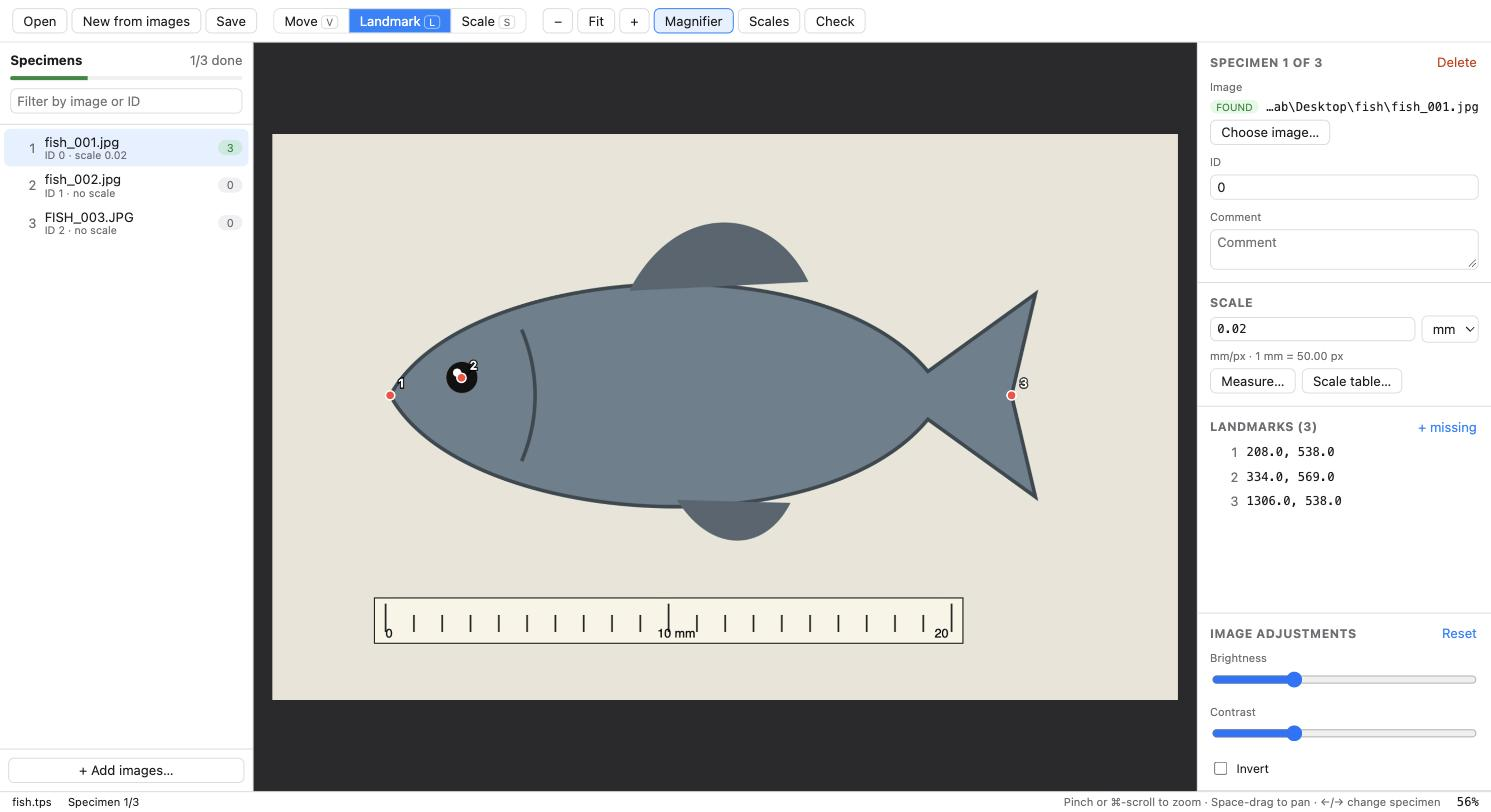
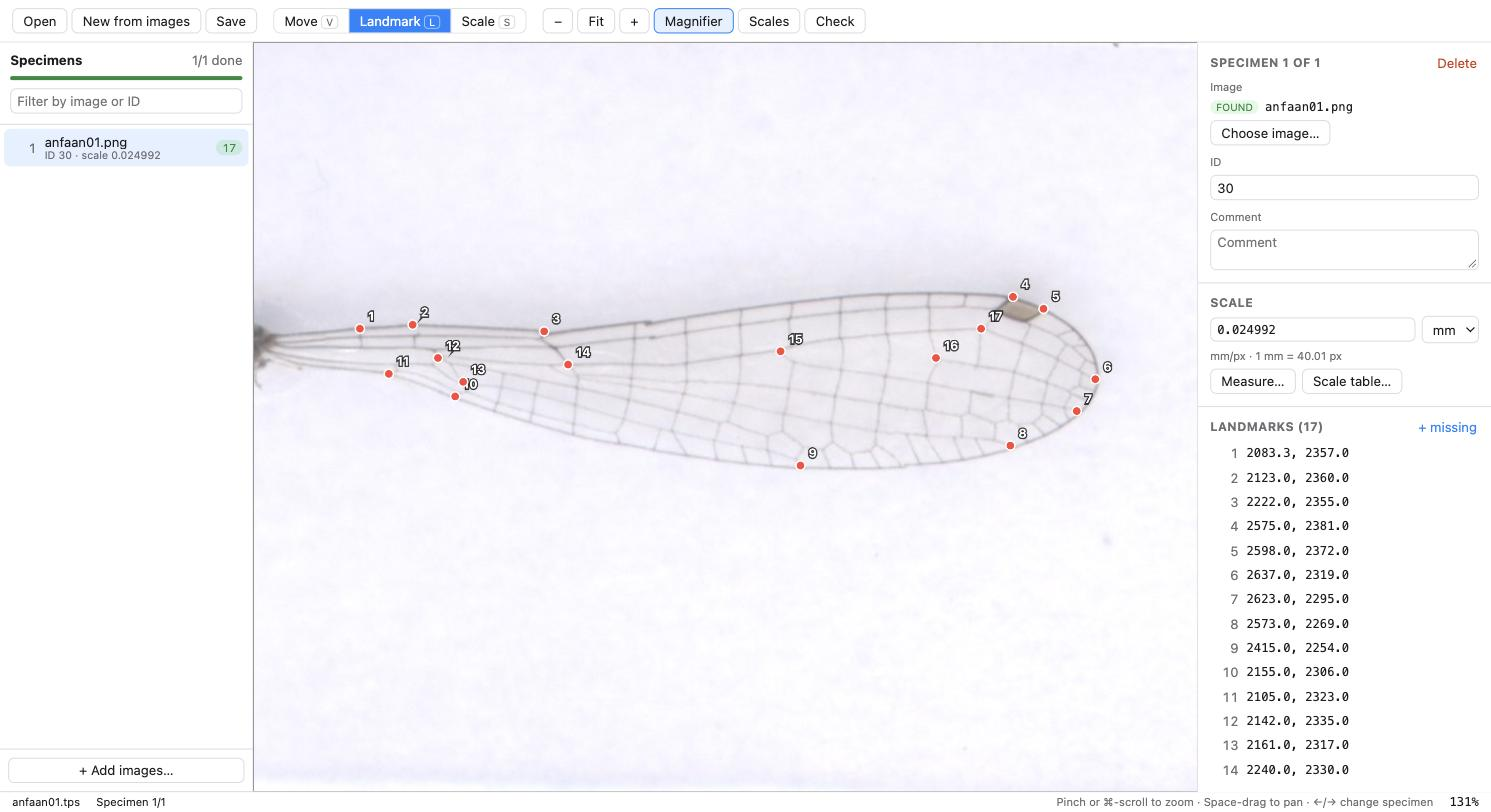
Use a real wing scan as the example; describe TPS View on its own terms
- Replace the synthetic fish example with a 1200 dpi wing scan and its 17 landmarks
- New website screenshot showing the digitized wing
- Website, README and app copy describe TPS View as an easy way to work with TPS files
- Bump to 0.1.1; update checkout/setup-node actions

diff --git a/docs/index.html b/docs/index.html
@@ -4,10 +4,10 @@
     <meta charset="utf-8" />
     <meta name="viewport" content="width=device-width, initial-scale=1" />
     <title>TPS View</title>
-    <meta name="description" content="Free, open-source landmark digitizer for .tps files. A modern tpsDig2 alternative for macOS, Windows and Linux." />
+    <meta name="description" content="Free, open-source app to create and edit .tps landmark files on macOS, Windows and Linux." />
     <link rel="icon" type="image/png" href="icon.png" />
-    <meta property="og:title" content="TPS View — open-source landmark digitizer" />
-    <meta property="og:description" content="A modern, free tpsDig2 alternative for macOS, Windows and Linux. Reads and writes standard .tps files." />
+    <meta property="og:title" content="TPS View — TPS landmark files, made easy" />
+    <meta property="og:description" content="Open your images, place landmarks, set the scale and save an analysis-ready .tps file. Free and open source for macOS, Windows and Linux." />
     <meta property="og:image" content="screenshot.jpg" />
     <style>
       :root {
@@ -287,9 +287,9 @@
 
       <header class="hero">
         <img class="logo" src="icon.png" alt="TPS View icon" />
-        <h1>Digitize landmarks.<br />On any computer.</h1>
+        <h1>TPS landmark files,<br />made easy.</h1>
         <p class="tagline">
-          TPS View is a free, open-source landmark digitizer for geometric morphometrics. It's a modern alternative to tpsDig2 that runs natively on Mac and reads and writes standard <code>.tps</code> files.
+          TPS View is a free, open-source app for building geometric morphometrics datasets. Open your images, place landmarks, set the scale, and save a clean <code>.tps</code> file ready for analysis, on Mac, Windows or Linux.
         </p>
         <div class="buttons">
           <a class="btn primary" id="download-mac" href="https://github.com/Echeverri222/tps-view/releases/latest">
@@ -301,15 +301,15 @@
         </div>
         <div class="meta" id="meta">Free and open source (MIT) · Apple Silicon &amp; Intel · macOS 11+</div>
         <div class="shot">
-          <img src="screenshot.jpg" alt="TPS View showing a fish specimen with three landmarks, the specimen list and the scale panel" width="1491" height="812" />
+          <img src="screenshot.jpg" alt="TPS View showing a scanned insect wing with 17 digitized landmarks, the specimen list and the scale panel" width="1491" height="812" />
         </div>
       </header>
     </div>
 
     <section class="alt" id="features">
       <div class="wrap">
-        <h2>Everything you used tpsDig for</h2>
-        <p class="lead">Plus the small things that make digitizing hundreds of specimens faster.</p>
+        <h2>From images to an analysis-ready dataset</h2>
+        <p class="lead">Everything you need to digitize hundreds of specimens, in one place.</p>
         <div class="grid">
           <div class="card">
             <div class="icon">📍</div>
@@ -349,15 +349,14 @@
       <div class="wrap">
         <h2>Your files stay standard</h2>
         <p class="lead">
-          TPS View writes the same format as tpsDig2: whole-pixel coordinates measured from the bottom-left corner, and <code>SCALE</code> in units per pixel. Your datasets keep working with:
+          TPS View reads and writes the standard TPS format: whole-pixel coordinates measured from the bottom-left corner, and <code>SCALE</code> in units per pixel. Your existing files open as they are, and the files you save work in the tools you already use for analysis:
         </p>
         <div class="compat">
-          <span class="pill">tpsDig2</span>
-          <span class="pill">tpsUtil</span>
-          <span class="pill">tpsRelw</span>
           <span class="pill">MorphoJ</span>
           <span class="pill">geomorph (R)</span>
           <span class="pill">Morpho (R)</span>
+          <span class="pill">PAST</span>
+          <span class="pill">Python &amp; Excel (CSV)</span>
         </div>
       </div>
     </section>
@@ -380,8 +379,7 @@
       <div class="wrap">
         TPS View is MIT-licensed and built in the open: <a href="https://github.com/Echeverri222/tps-view">source</a> ·
         <a href="https://github.com/Echeverri222/tps-view/issues">report a problem</a> ·
-        <a href="https://github.com/Echeverri222/tps-view/releases">all releases</a><br />
-        Independent project, not affiliated with the tps series by F. James Rohlf.
+        <a href="https://github.com/Echeverri222/tps-view/releases">all releases</a>
       </div>
     </footer>
 

diff --git a/app/src/devmock.ts b/app/src/devmock.ts
@@ -1,16 +1,16 @@
 /**
  * Development-only fake of the Tauri backend so the UI can run in an ordinary browser
  * (handy for UI work and automated testing). Loaded from main.tsx only when running under
- * `vite` without Tauri. Opens examples/fish/fish.tps on start; "saves" are kept in memory.
+ * `vite` without Tauri. Opens examples/wing/anfaan01.tps on start; "saves" are kept in memory.
  */
 import { mockIPC, mockWindows } from "@tauri-apps/api/mocks";
 
 declare const __REPO_ROOT__: string;
 const root = __REPO_ROOT__;
-const demoDir = `${root}/examples/fish`;
+const demoDir = `${root}/examples/wing`;
 const saved: Record<string, string> = {};
 (window as unknown as { __saved: typeof saved }).__saved = saved;
-let pending = [`${demoDir}/fish.tps`];
+let pending = [`${demoDir}/anfaan01.tps`];
 
 const file = (p: string) => fetch(`/@fs${p}`).then((r) => {
   if (!r.ok) throw new Error(`${p}: not found`);
@@ -42,8 +42,8 @@ mockIPC(
       }
       case "plugin:dialog|open":
         if (a.options?.directory) return demoDir;
-        if (a.options?.multiple) return ["fish_001.jpg", "fish_002.jpg", "fish_003.jpg"].map((f) => `${demoDir}/${f}`);
-        return a.options?.filters?.[0]?.name === "Images" ? `${demoDir}/fish_002.jpg` : `${demoDir}/fish.tps`;
+        if (a.options?.multiple) return [`${demoDir}/anfaan01.png`];
+        return a.options?.filters?.[0]?.name === "Images" ? `${demoDir}/anfaan01.png` : `${demoDir}/anfaan01.tps`;
       case "plugin:dialog|save":
         return `${demoDir}/saved.tps`;
       case "plugin:dialog|ask":

diff --git a/app/src/menu.ts b/app/src/menu.ts
@@ -20,7 +20,7 @@ export async function setupMenu() {
         await Submenu.new({
           text: "TPS View",
           items: [
-            await PredefinedMenuItem.new({ item: { About: { name: "TPS View", version: "0.1.0", license: "MIT", website: "https://echeverri222.github.io/tps-view/", websiteLabel: "echeverri222.github.io/tps-view" } } }),
+            await PredefinedMenuItem.new({ item: { About: { name: "TPS View", version: "0.1.1", license: "MIT", website: "https://echeverri222.github.io/tps-view/", websiteLabel: "echeverri222.github.io/tps-view" } } }),
             await sep(),
             await PredefinedMenuItem.new({ item: "Services" }),
             await sep(),

diff --git a/app/src/App.tsx b/app/src/App.tsx
@@ -170,7 +170,7 @@ function Welcome() {
             </svg>
           </div>
           <h1>TPS View</h1>
-          <p className="muted">Open-source landmark digitizer, compatible with tpsDig .tps files.</p>
+          <p className="muted">Create and edit .tps landmark files: open images, place landmarks, set the scale.</p>
           <div className="row center">
             <button className="primary big" onClick={openDialog}>
               Open TPS file…

diff --git a/README.md b/README.md
@@ -4,18 +4,18 @@
 
 ![TPS View](docs/screenshot.jpg)
 
-An open-source, modern landmark digitizer for **`.tps` files**: a replacement for tpsDig2 that runs natively on **macOS**, as well as Windows and Linux.
+A free, open-source app that makes working with **`.tps` landmark files** easy. Open your images, place landmarks, set the scale, and save an analysis-ready dataset. Runs natively on **macOS**, Windows and Linux.
 
-Files saved by TPS View stay compatible with tpsDig2, tpsUtil, tpsRelw, MorphoJ and R (`geomorph::readland.tps`).
+TPS View reads and writes the standard TPS format, so existing files open as they are and saved files work in MorphoJ, PAST and R (`geomorph::readland.tps`).
 
 ## Features (v0.1)
 
 - **Open and save `.tps` files.** Supports `LM`, `LM3`, `CURVES`, `OUTLINES`, `VARIABLES`, `IMAGE`, `ID`, `SCALE`, `COMMENT`, and unknown keywords, which are kept as-is.
   - Tolerant of messy files: Windows line endings, lowercase keywords, decimal commas, truncated blocks.
 - **Choose each specimen's image.** Pick the exact image file for any specimen.
-  - Windows paths such as `C:\data\fish_01.JPG` are found automatically next to the `.tps` file.
+  - Windows paths such as `C:\data\wing_01.png` are found automatically next to the `.tps` file.
   - Missing images can be relinked in bulk from a folder.
-- **New from images.** Create a TPS file from a set of images (like tpsUtil's *Build tps from images*), or add images to an existing file.
+- **New from images.** Create a TPS file from a set of images, or add images to an existing file.
 - **Digitize landmarks.**
   - Click to place, drag to move, and delete.
   - Mark landmarks as missing (`-1 -1`).
@@ -73,10 +73,10 @@ xattr -cr "/Applications/TPS View.app"
 
 ## Notes on the TPS format
 
-- **Coordinates are in pixels, with the origin at the bottom-left of the image** (tpsDig convention). TPS View converts between this and screen coordinates, so files open with points in the same place as in tpsDig.
+- **Coordinates are whole pixels, with the origin at the bottom-left of the image**, as the TPS format specifies. TPS View converts between this and screen coordinates, so points from existing files appear exactly where they were placed.
 - **`SCALE` is in units per pixel.** The unit itself (mm, µm…) isn't stored in the file; the unit picker in TPS View only affects what's shown on screen.
 - **Missing landmarks** are written as negative coordinates (`-1.00000 -1.00000`). Use `readland.tps(..., negNA = TRUE)` in geomorph.
-- **New `IMAGE=` values are written relative to the `.tps` file** (for example `fish_01.jpg` or `images/fish_01.jpg`), so a dataset folder can be moved between computers.
+- **New `IMAGE=` values are written relative to the `.tps` file** (for example `wing_01.png` or `images/wing_01.png`), so a dataset folder can be moved between computers.
 
 ## Development
 
@@ -89,7 +89,7 @@ npm test           # unit tests for the TPS parser/writer
 npm run build      # build installers into app/src-tauri/target/release/bundle/
 ```
 
-**Browser preview:** while `npm run dev` is running, you can also open http://localhost:1420 in a normal browser. A fake backend (`app/src/devmock.ts`) opens `examples/fish/fish.tps` and keeps saves in memory, which is handy for UI work and automated testing.
+**Browser preview:** while `npm run dev` is running, you can also open http://localhost:1420 in a normal browser. A fake backend (`app/src/devmock.ts`) opens `examples/wing/anfaan01.tps` and keeps saves in memory, which is handy for UI work and automated testing.
 
 Project layout:
 
@@ -98,7 +98,7 @@ packages/tps-core/   TPS parser, writer and utilities (pure TypeScript, no UI), 
 app/                 Desktop app: React + TypeScript UI
 app/src-tauri/       Tauri (Rust) shell: file access, native menus, bundling
 fixtures/            Sample .tps files used by the tests
-examples/            Example dataset (synthetic fish photos + .tps)
+examples/            Example dataset: a 1200 dpi wing scan with 17 landmarks
 docs/                Website (GitHub Pages)
 ```
 
@@ -133,4 +133,4 @@ Contributions are welcome! Real-world `.tps` files that don't open correctly are
 
 ## License
 
-MIT. TPS View is an independent project and isn't affiliated with the tps series software by F. James Rohlf.
+MIT.
